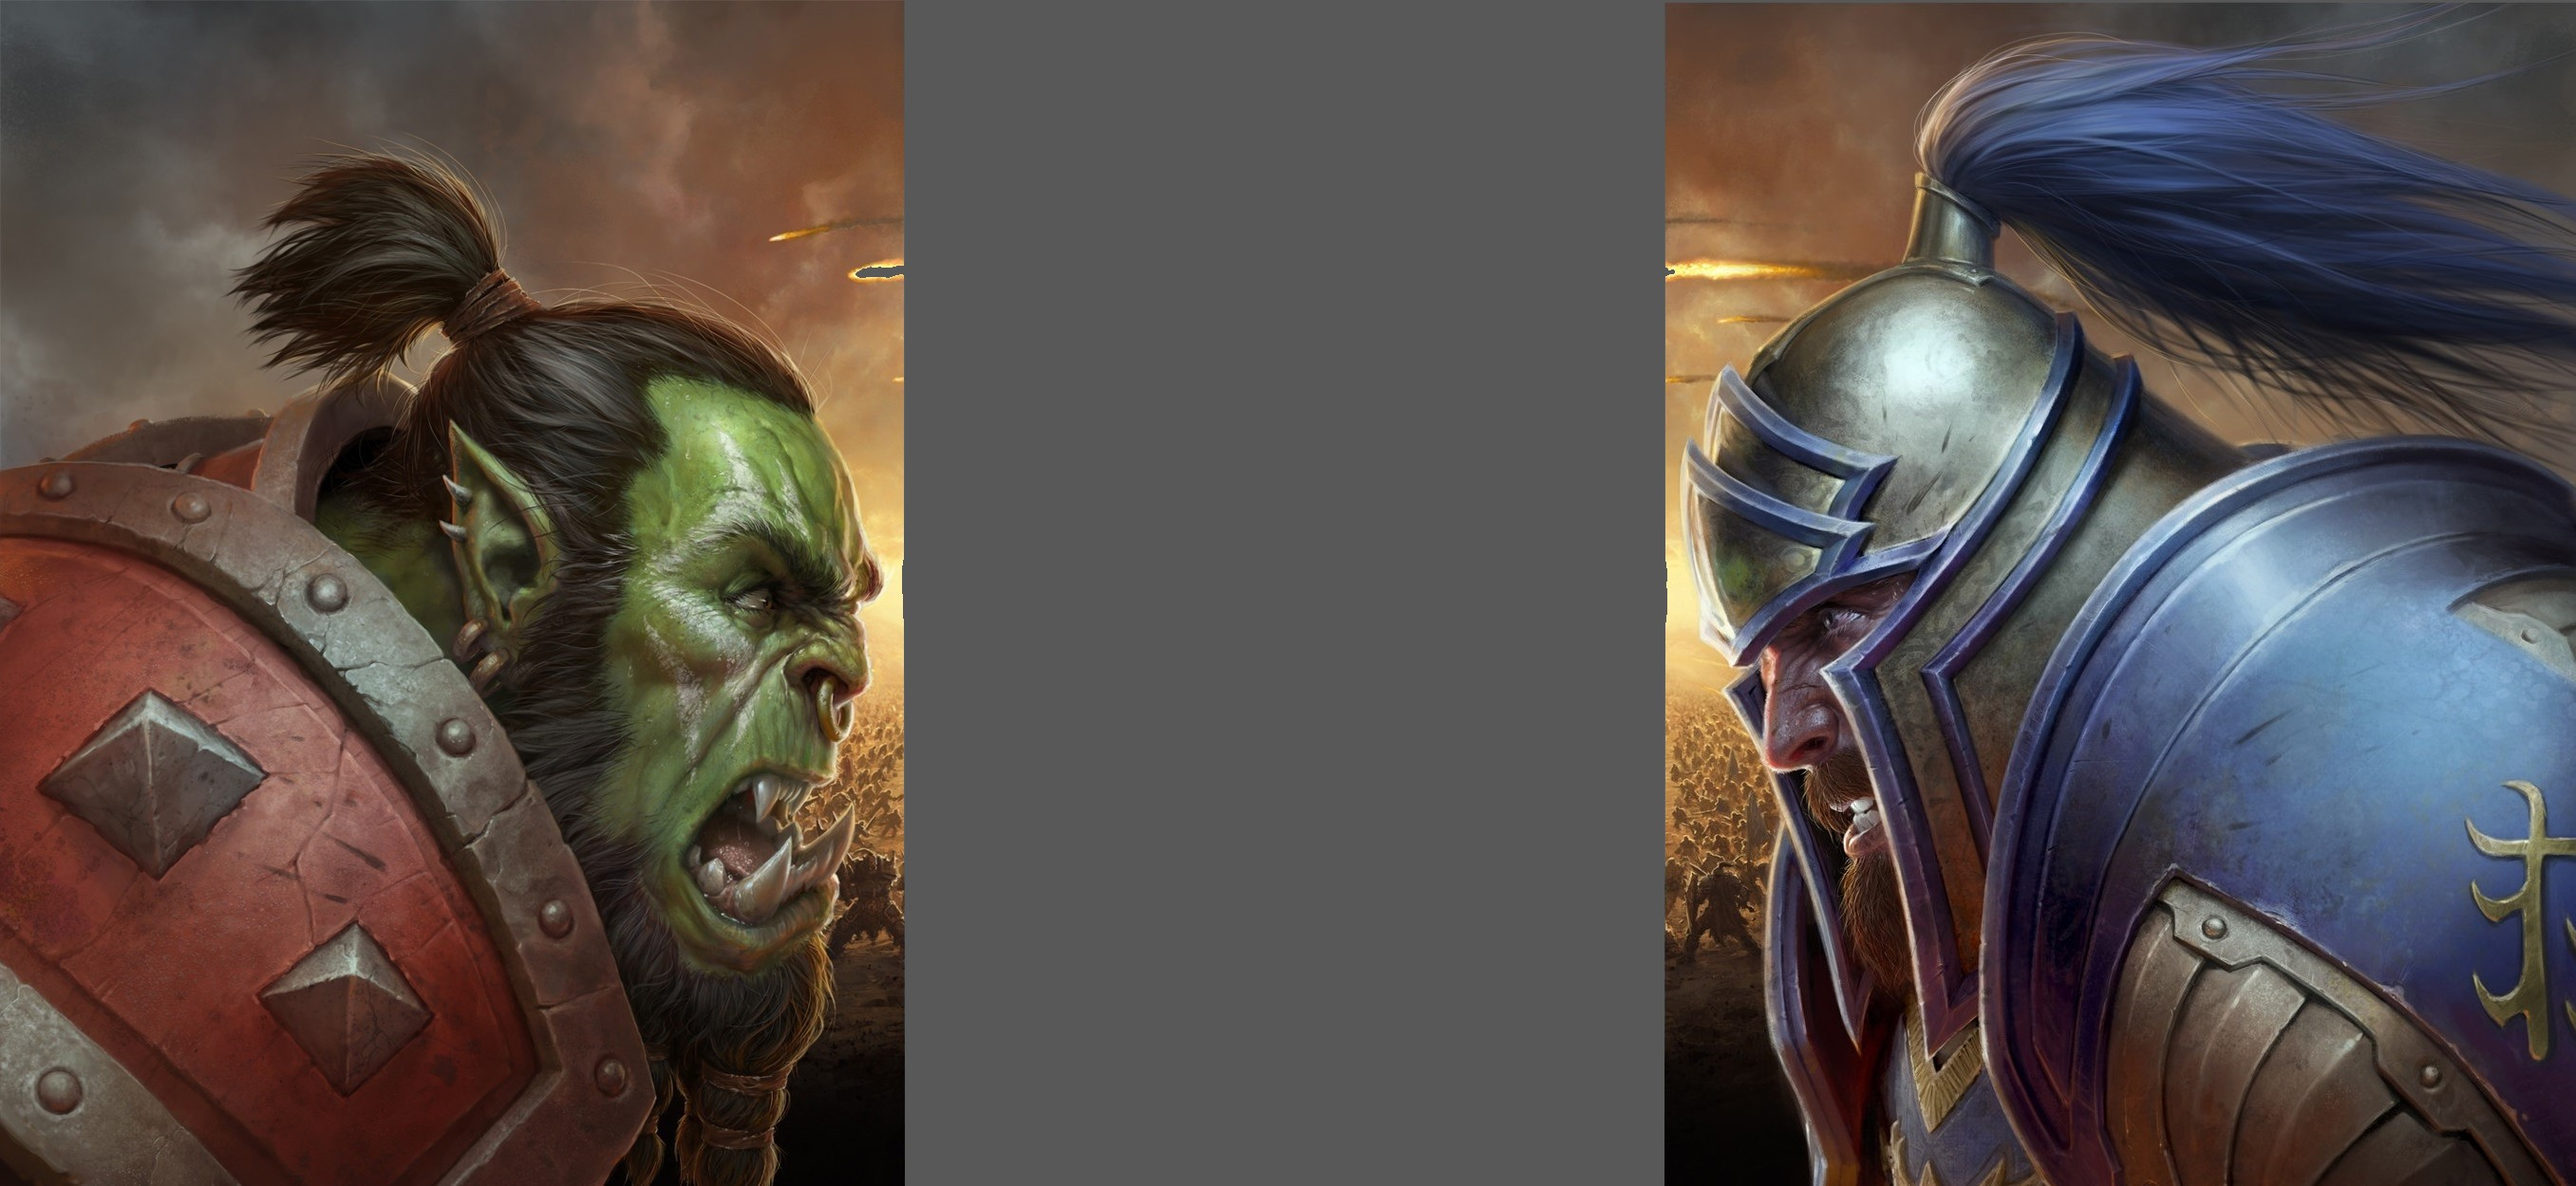
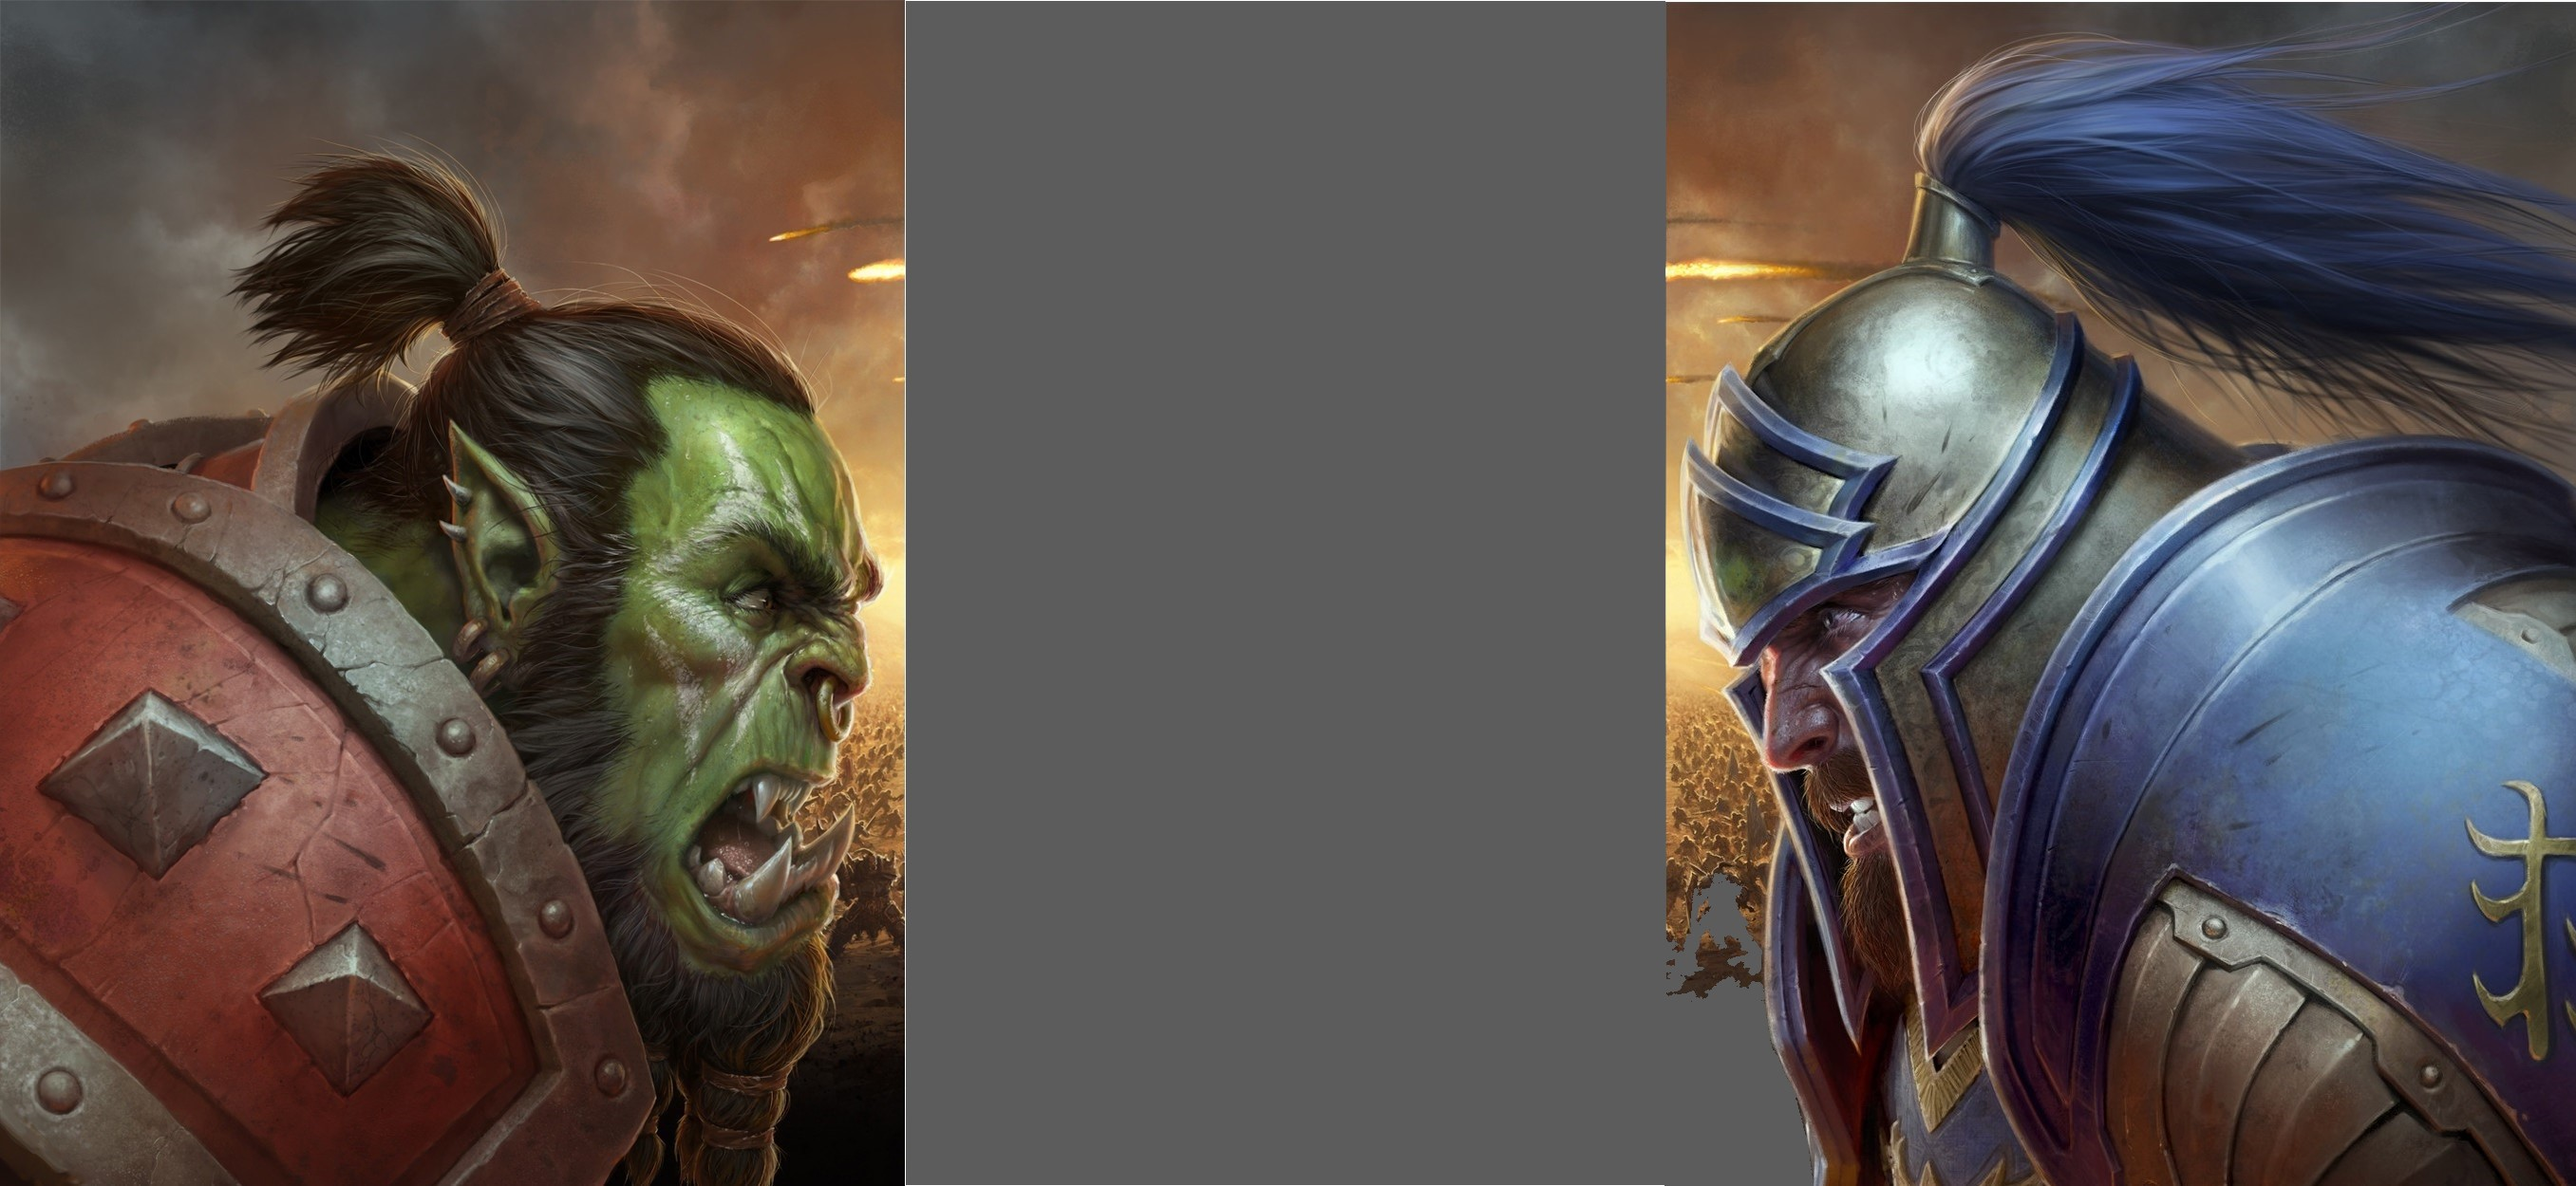
added background img
dont know how to style it. research that

Changed region(s): [[0.3406, 0.7488, 0.7121, 1.0], [0.3406, 0.2184, 0.3715, 0.2496]]

diff --git a/arenatracker/frontend/src/App.js b/arenatracker/frontend/src/App.js
@@ -7,7 +7,8 @@ import {TheThemForm} from './Components/TheForm/Them';
 import {WinLoss} from './Components/TheForm/WinLoss';
 import {Percentages} from './Components/TheForm/Percentages';
 import {PopularChoice} from './Components/TheForm/PopularChoice';
-//import background from './Images';
+import styled from 'styled-components';
+import {background} from './Images/Images';
 
 class App extends Component {
 constructor(props) {
@@ -46,6 +47,7 @@ handleSubmit(event) {
 render() {
    return (
      <div className="App">
+      <img src={background}/>
       <label>________________________________________________________________________________________</label>
        <TheVsForm onSubmit={this.handleSubmit}>   {/*do i need this submit?*/}
        </TheVsForm>
@@ -70,9 +72,20 @@ render() {
   }
 }
 
-export default App;
 
 
+// const theBackground = styled.div`
+//     background-image: background;
+//     border: 1px solid #000;
+//     background-size: 100%;
+//     background-position: 'center';
+//     background-repeat: 'no-repeat';
+//     `;
+    export default App;
+    
+    
+    // width: 200px;
+    // height: 200px;
 
  
 // <ThemeContext.Provider value={themeChange}>

diff --git a/arenatracker/frontend/src/Components/TheForm/Vs/VsComps.js b/arenatracker/frontend/src/Components/TheForm/Vs/VsComps.js
@@ -148,7 +148,7 @@ class TheVsForm extends React.Component {
             </label>
                 <div className="comps">
                 <DropdownMenu {...menuOptions} value={this.state.value}>
-                    <li> <button onClick={this.close} name="teamComp" value="Variant">Variant/Hybrid</button></li>
+                    <li> <button onClick={this.close} name="teamComp" value="Variant">Variant/Hybrid</button></li>{/*  this will be the default If not named comp */}
                     <li> <button onClick={this.close} name="teamComp" value="Cupid Cleave">Cupid Cleave</button></li>  {/*Ret/hunt/x*/}
                     <li> <button onClick={this.close} name="teamComp" value="God Comp">God Comp</button></li>          {/*Spriest/Mage/Rdruid*/}
                     <li> <button onClick={this.close} name="teamComp" value="KFC">KFC</button></li>                    {/*war/hunt/x*/}

diff --git a/arenatracker/frontend/src/Components/TheForm/Vs/VsRoles.js b/arenatracker/frontend/src/Components/TheForm/Vs/VsRoles.js
@@ -103,6 +103,17 @@ const classSpecModules = [
 	},
 ]
 
+//TODO:
+
+//1. get autofill functionallity
+	//call componentDidUpdate
+	//pass in peramiters		//prevstate, prevprops
+	// if (this.props.selectedTeamComp === cupicCleave && this.props.name === dps1)
+
+//2. set limits on healer selections
+
+
+
 class TheVsForm extends React.Component {
     constructor(props) {
         super(props)
@@ -115,9 +126,6 @@ class TheVsForm extends React.Component {
 			this.setState({ isMenuOpen: !this.state.isMenuOpen });
 		}
 		
-		//call componentDidUpdate
-		//pass in peramiters		//prevstate, prevprops
-		// if (this.props.selectedTeamComp === cupicCleave && this.props.name === dps1)
      
     close = (event) => {
 		const thing = event.target.getAttribute('data-canclick');

diff --git a/arenatracker/frontend/src/Images/Images/index.js b/arenatracker/frontend/src/Images/Images/index.js
@@ -1,0 +1,1 @@
+export {default as background} from '../Images/background.jpg';
